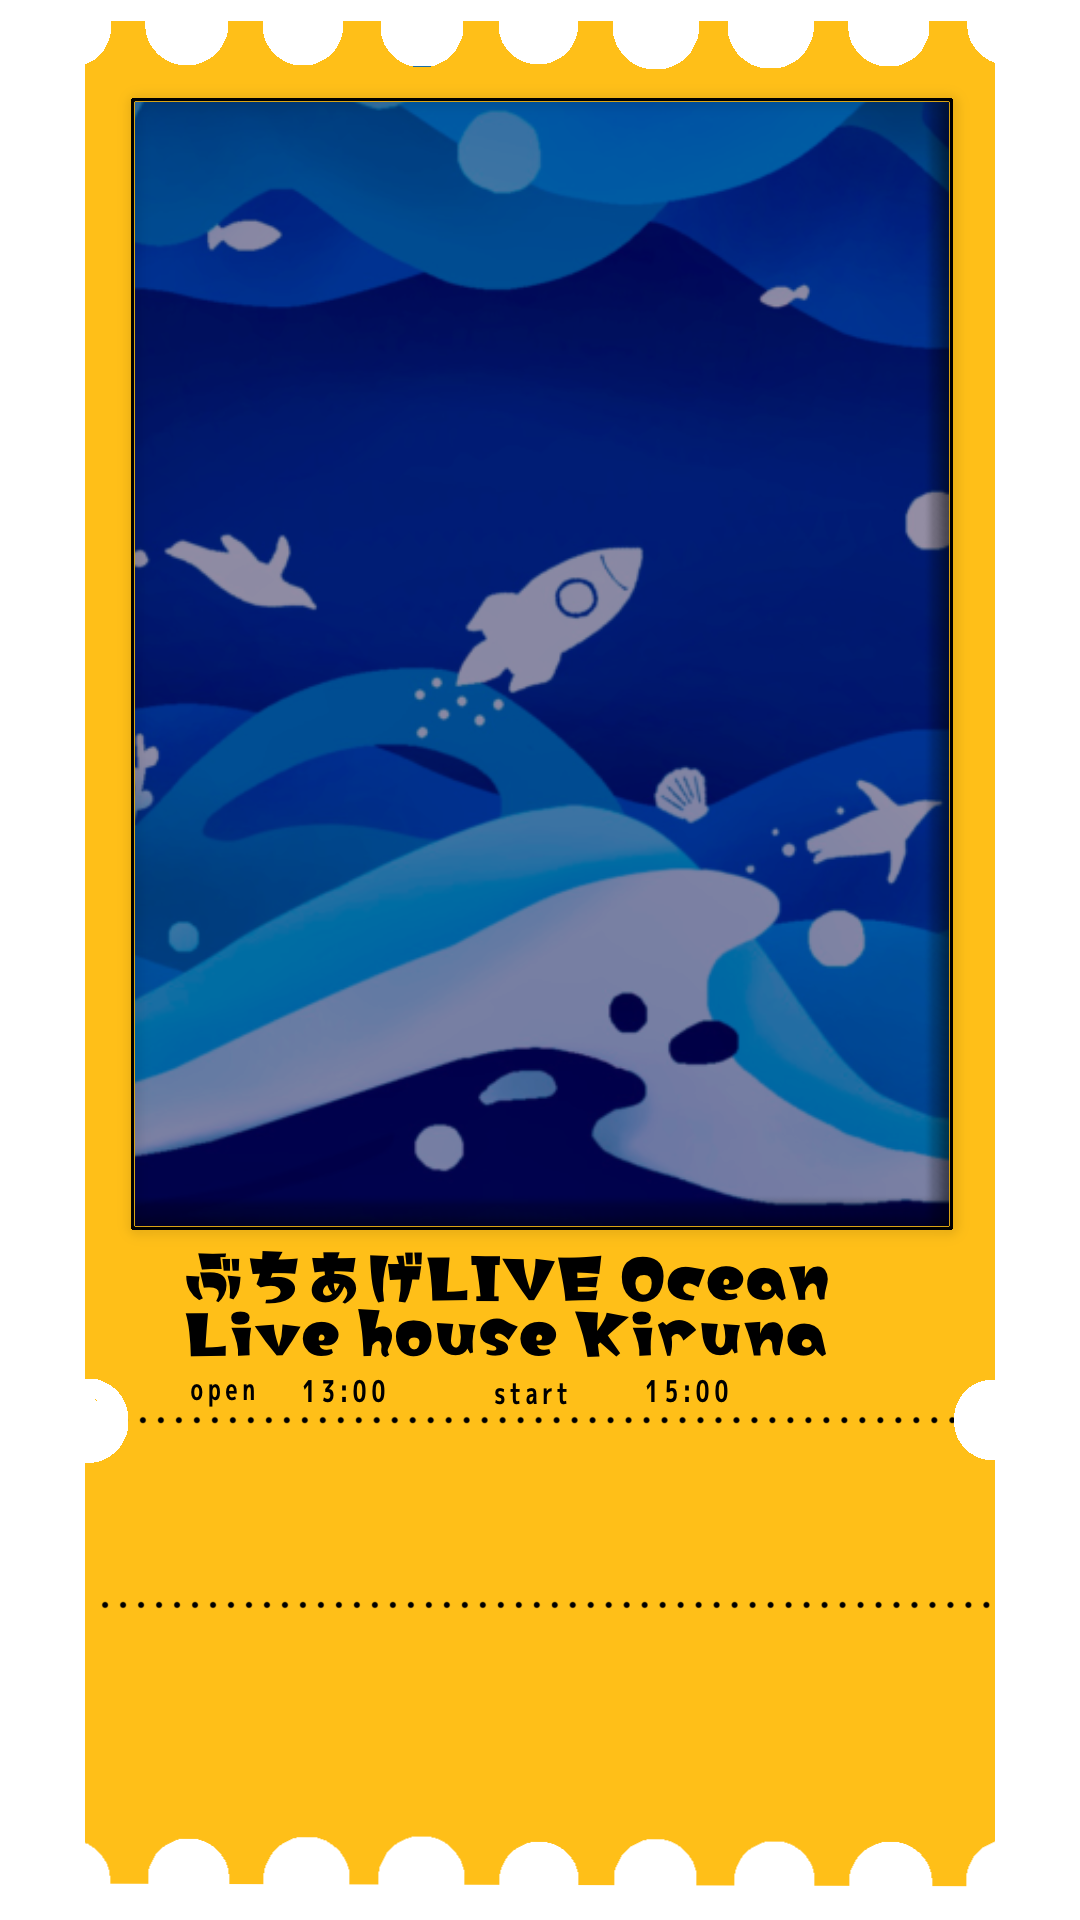
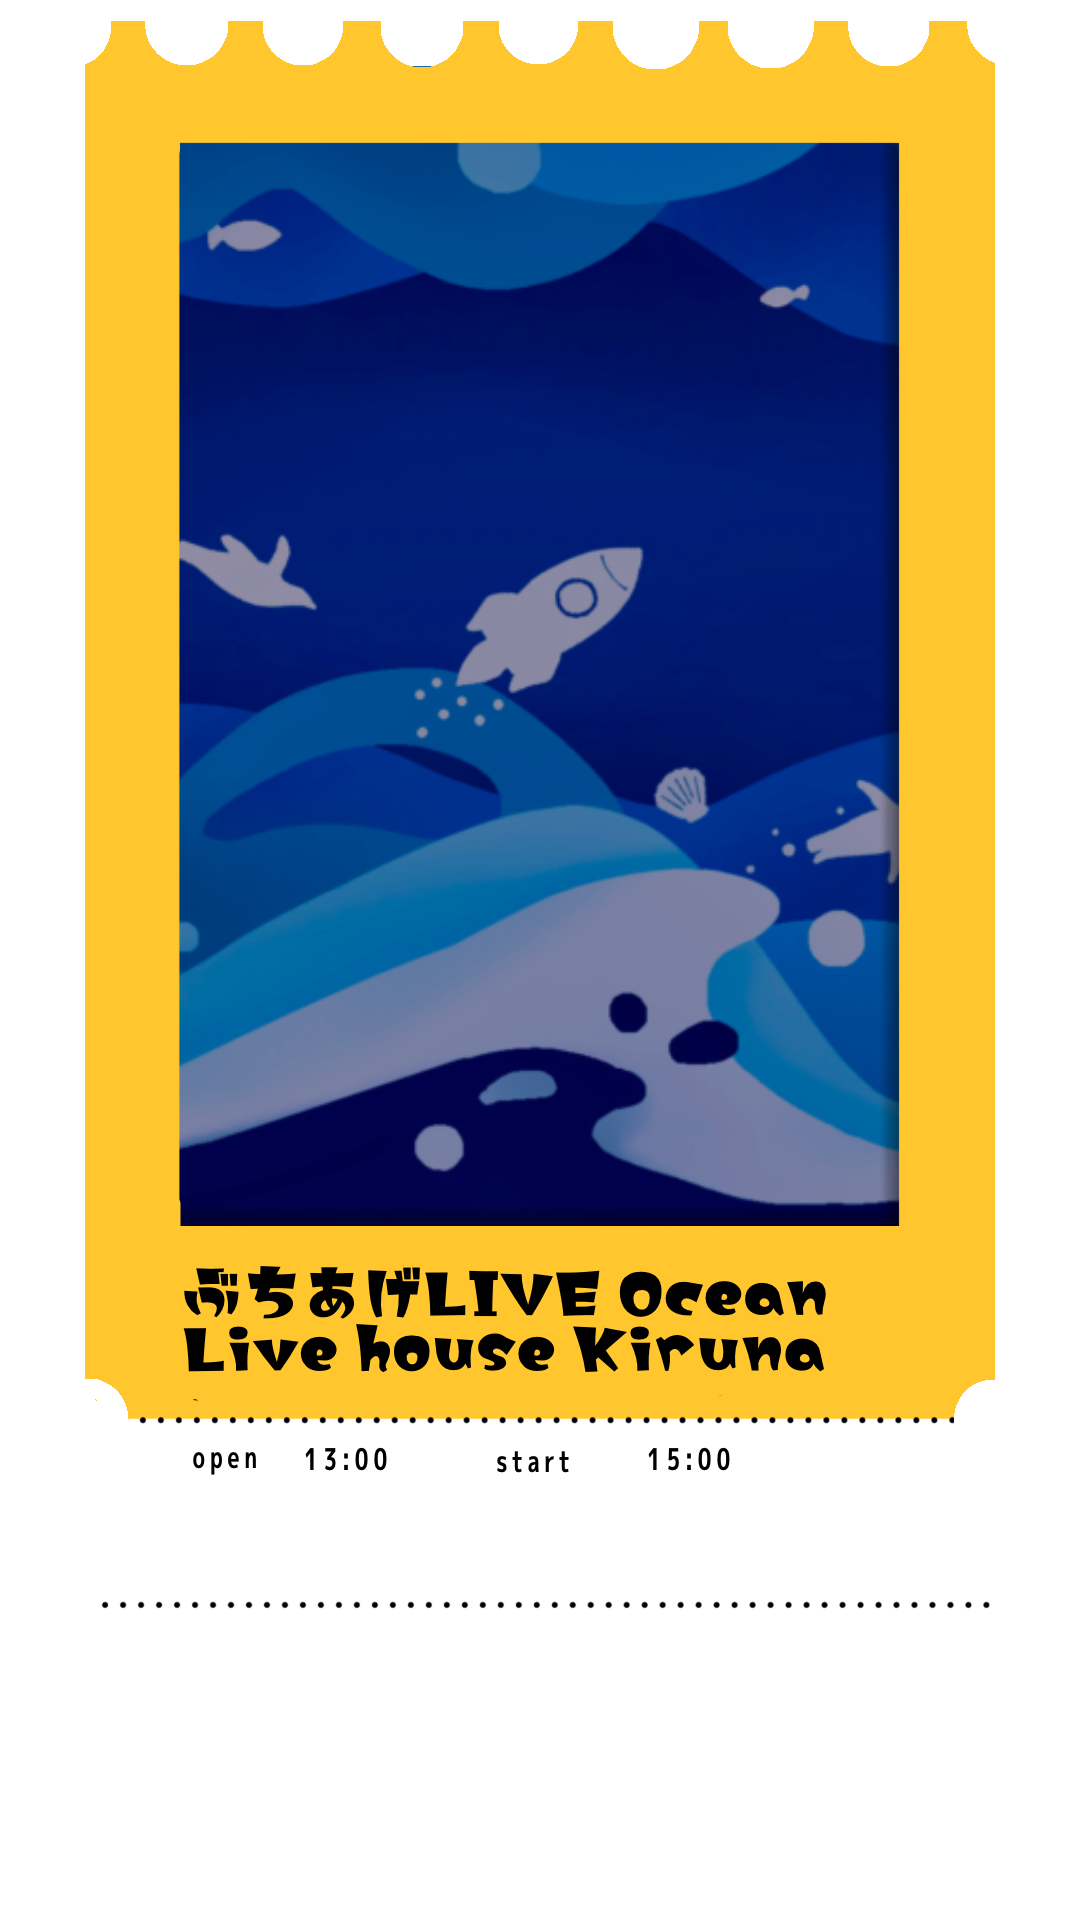
7/12

Changed region(s): [[0.0611, 0.0312, 0.9472, 1.0]]

diff --git a/app/components/Ticket.tsx b/app/components/Ticket.tsx
@@ -30,7 +30,8 @@ const Ticket = () => {
             <div className="w-full p-[10px] flex gap-[10px]">
                 <Image src="/live1.png" width={1080} height={1920} alt="live1" className="w-[190.8px] h-[338.4px]" />
                 <div className="flex-1 flex flex-col items-center justify-center gap-[13px] px-[21px] py-[7px]">
-                    <p className={`${zenmarugothic.className} text-[12px] leading-[100%] tracking-[-1%]`}>ぶちあげLIVE</p>
+                    <p className={`${zenmarugothic.className} text-[12px] leading-[100%] tracking-[-1%]`}>ぶちあげ</p>
+                    <p className={`${zenmarugothic.className} text-[12px] leading-[100%] tracking-[-1%]`}>LIVE</p>
                     <p className={`${zenmarugothic.className} text-[12px] leading-[100%] tracking-[-1%]`}>Ocean編</p>
                 </div>
             </div>

diff --git a/app/ui/fonts.ts b/app/ui/fonts.ts
@@ -2,4 +2,4 @@ import { Darumadrop_One } from "next/font/google";
 import { Zen_Maru_Gothic } from "next/font/google";
 
 export const darumadrop = Darumadrop_One({ subsets: ["latin"], weight: "400" });
-export const zenmarugothic = Zen_Maru_Gothic({ subsets: ["latin"], weight: "400" });
+export const zenmarugothic = Zen_Maru_Gothic({ subsets: ["latin"], weight: ["400", "500", "700"] });